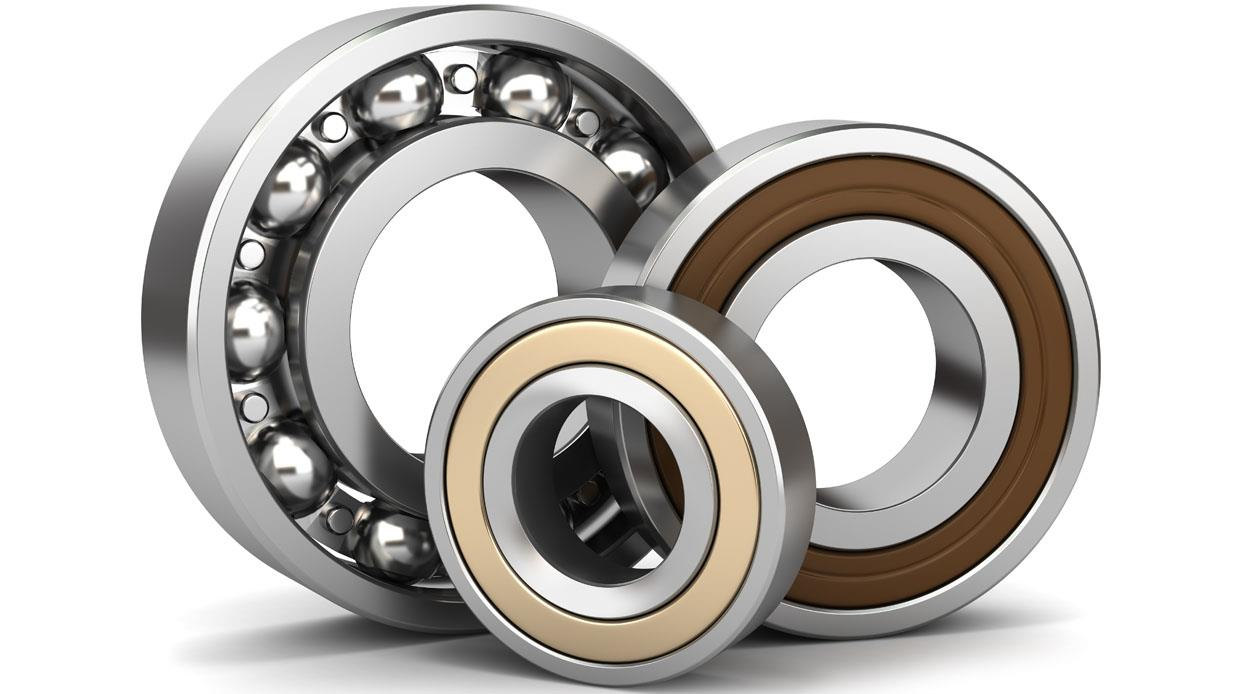
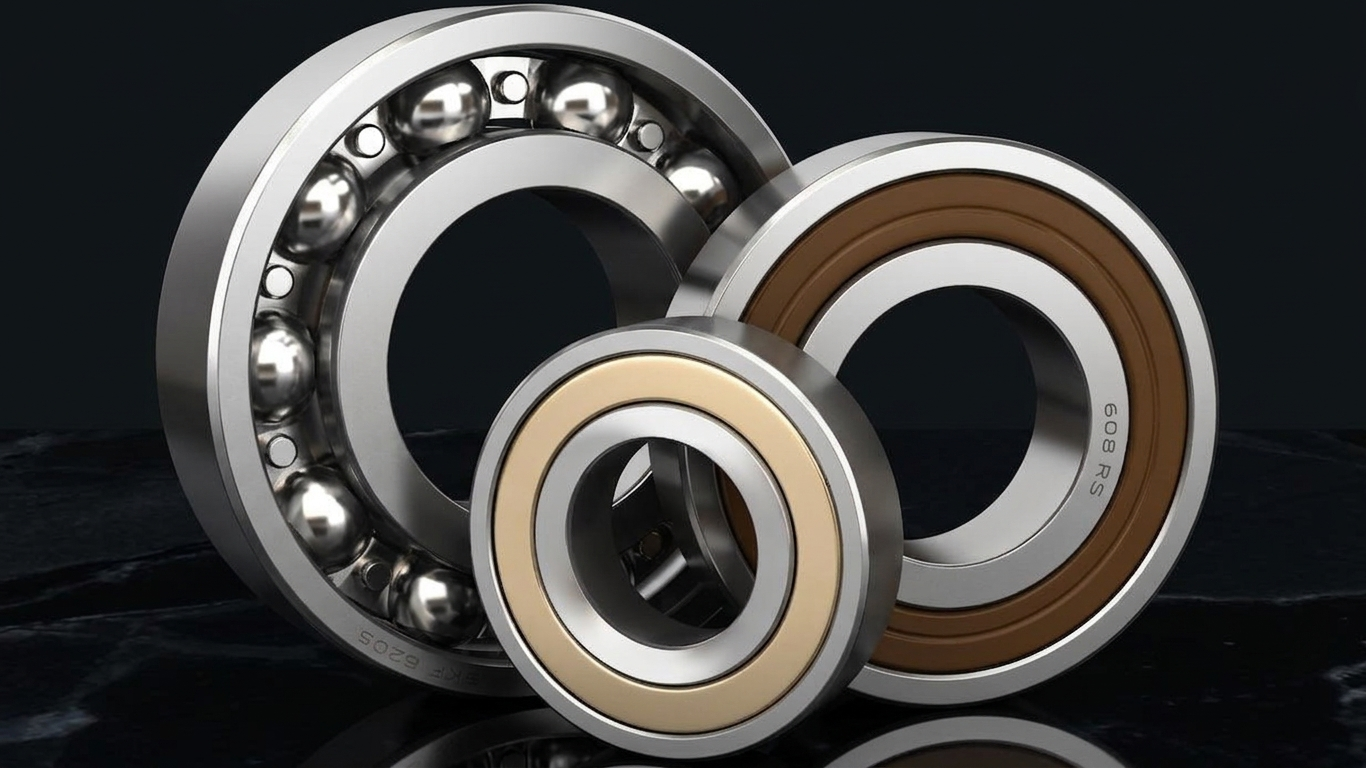
Implement code changes to enhance functionality and improve performance

diff --git a/frontend/src/pages/LandingPage.tsx b/frontend/src/pages/LandingPage.tsx
@@ -42,6 +42,7 @@ const PART_CATEGORIES = [
   { id: 'gearbox', logo: '/images/parts/gearbox.jpg' },
   { id: 'ujoint', logo: '/images/parts/ujoint.jpg' },
   { id: 'alternator', logo: '/images/parts/alternator.jpg' },
+  { id: 'filter', logo: '/images/parts/filter.jpg' },
 ];
 
 // Radial fade for the ambient glow layer only (not the sharp foreground
@@ -163,17 +164,22 @@ export function LandingPage() {
                     }}
                     className="absolute inset-0 h-full w-full scale-125 object-cover opacity-60"
                   />
-                  <div className="relative h-full w-full overflow-hidden rounded-3xl shadow-2xl ring-1 ring-white/10">
+                  <div className="relative h-full w-full overflow-hidden rounded-3xl bg-steel shadow-2xl ring-1 ring-white/10">
                     <img
                       src={part.logo}
                       alt=""
+                      // object-contain (not cover) so the whole part is
+                      // visible instead of cropped — a bearing or U-joint
+                      // isn't recognizable if half of it is cut off. The
+                      // bg-steel behind fills the resulting letterbox
+                      // padding so non-square photos don't leave dead space.
                       // Desaturated + slightly contrasted so stock photos
                       // with wildly different color casts (e.g. a bright
                       // cyan studio backdrop) still read as one consistent,
                       // on-brand set instead of clashing with the
                       // graphite/safety palette.
                       style={{ filter: 'saturate(0.45) contrast(1.08) brightness(0.95)' }}
-                      className={`h-full w-full object-cover ${
+                      className={`h-full w-full object-contain p-6 ${
                         i === currentPartSlide ? 'animate-[ken-burns_6000ms_ease-out_forwards]' : ''
                       }`}
                     />
